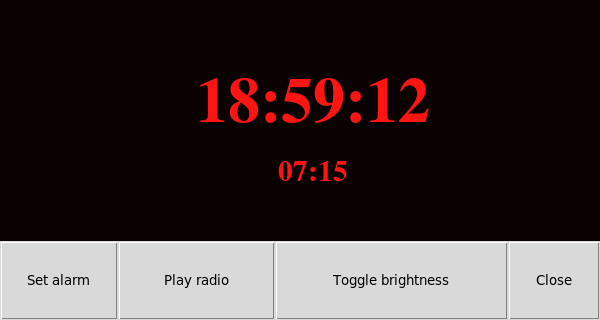
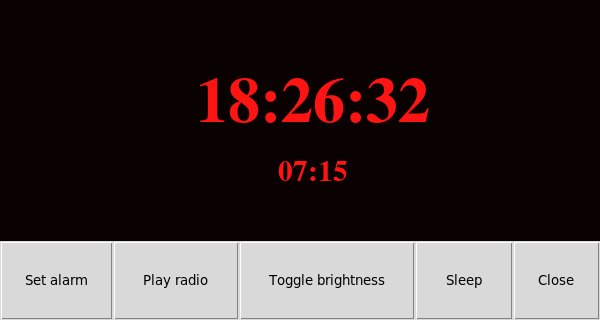
Update README

diff --git a/README.md b/README.md
@@ -1,6 +1,6 @@
 # Alarmpi
 
-A clock radio for a Raspberry Pi with customizable alarm.
+A Raspberry Pi clock radio with customizable Text To Speech alarm.
 ```
 Good afternoon, it's Wednesday September twelfth. The time is 07:29 PM.
 
@@ -33,7 +33,7 @@ This is a fork of skiwithpete's alarmpi project: https://github.com/skiwithpete/
  * A spoken greeting based on time of day
  * Reads the day's weather using Yahoo Weather
  * Reads latest news from BBC World RSS feed
- * Streams internet radio streams using `mplayer`
+ * Plays internet radio streams using `mplayer`
  * Alarm scheduling via cron
  * GUI with current time
 
@@ -59,9 +59,9 @@ This project is built around the following hardware.
  * Official Raspberry Pi Display
  * A speaker
 
-Apart from the speaker these aren't requirements per se. The project is mostly a set of Python scripts which will likely run on many Linux systems. The only strict bind to a Raspberry Pi is a toggle button on the GUI for setting the screen backlight brightness between low and high. This button is disabled on other systems.
+Apart from the speaker these aren't requirements per se. The project is mostly a couple of Python scripts which will likely run on many Linux platforms. The GUI does have two bindings to a Raspberry Pi: the buttons for toggling screen brightness and putting it to sleep are disabled on a different system.
 
-It's also possible to run the alarm entirely from the command line, without a display attached.
+It's also possible to run the alarm without the GUI on a headless setup.
 
 
 
@@ -90,7 +90,7 @@ It's also possible to run the alarm entirely from the command line, without a di
 
   and follow the instructions.
 
-   * Since this script uses cron to schedule the alarm and hende modifies crontab. If a crontab already exists, you may therefore want to create a backup with `crontab -l > cron.backup` before running the script. It can be restored with `crontab cron.backup`.  
+   * This script uses cron to schedule the alarm and hence modifies the user's crontab. You may therefore want to create a backup of an existing crontab with `crontab -l > cron.backup` before running the script. It can be restored with `crontab cron.backup`.  
 
  4. Optionally, run unit tests with
 
@@ -107,11 +107,11 @@ or
 python sound_the_alarm.py [path/to/configuration/file]
 ```
 
-The first form opens the GUI for displaying current time and scheduling the alarm. The GUI also contains buttons for turning radio stream on and off and setting screen brightness between high and low. These options have additional conditions. The radio button is only enabled when a url to a radio stream is set in the configuration file. The brightness button only works with the official Raspberry Pi touchscreen display as it works by writing a new brightness value to `/sys/class/backlight/rpi_backlight/brightness`. This buttons will be disabled if the file does not exist.
+The first form opens a GUI for displaying current time and scheduling the alarm, see the screenshots above. On a Raspberry Pi the GUI can also be used to toggle screen brightness between high and low as well as turning it to sleep entirely. These buttons will be disabled if the system file `/sys/class/backlight/rpi_backlight/brightness` does not exist.
 
 In a headless Raspberry Pi environment running the GUI will fail since Tkinter cannot be imported. Instead, use the second form to play the alarm directly and add a cron entry manually to schedule it.
 
-In either case, scheduling an alarm is done by adding a new cron entry to `sound_the_alarm.py`. This means that when scheduled, the alarm will play regardless of whether the GUI is running or not! Also note that the radio stream, if enabled, is run as a separate `mplayer` system process from the Python script running the rest of the alarm. When run from the command line, you need to terminate the process separately. This can be done with the included `stop.sh` shell script. When using the GUI, closing the main window will also close any active radio streams.
+Scheduling an alarm is done by adding a new cron entry to `sound_the_alarm.py`, either through the GUI or manually. **This means the alarm will play regardless of whether the GUI is running or not!** Also note that if enabled, the radio stream spawns a separate `mplayer` process. The GUI's _Play radio_ as well as _Close_ buttons take care of terminating this process when the radio is turned off, but using the second form of the script you need to terminate the stream separately. This can be done with the included `stop.sh` shell script.
 
 The optional argument in both forms is a path to a configuration file for customizing the alarm, see [config_readme.md](./config_readme.md) for instructions. By default `alarm.config` will be used.
 
@@ -127,4 +127,16 @@ optional arguments:
   -h, --help     show this help message and exit
   --init-config  re-create the default configuration file alarm.config.
                  Overwrites existing file.
+```
+
+The GUI also supports a fullscreen mode:
+```
+Run alarmpi GUI
+
+positional arguments:
+  config        path to an alarm configuration file. Defaults to alarm.config
+
+optional arguments:
+  -h, --help    show this help message and exit
+  --fullscreen  launch the script in fullscreen mode
 ```
